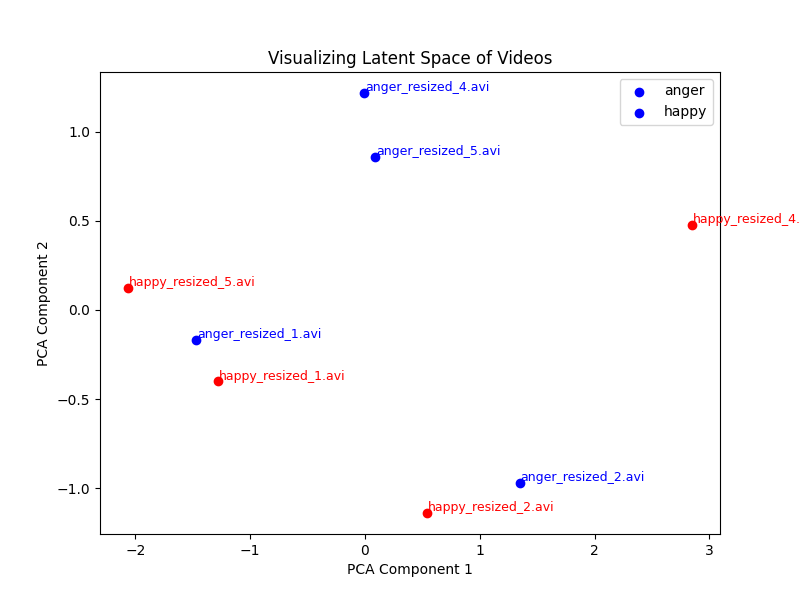
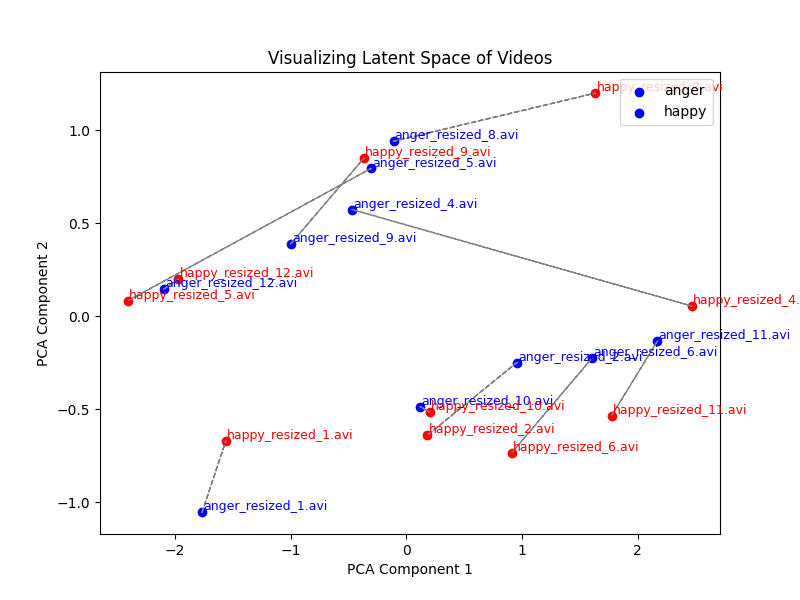
new file

diff --git a/apex_extract.py b/apex_extract.py
@@ -22,94 +22,6 @@ from joblib import Parallel, delayed
 # model parameters
 
 device = 'cuda'
-# face_cascade = cv2.CascadeClassifier(cv2.data.haarcascades + 'haarcascade_frontalface_default.xml')
-
-# def change_fps(cap, target_fps):
-#     original_fps = cap.get(cv2.CAP_PROP_FPS)
-#     frame_count = int(cap.get(cv2.CAP_PROP_FRAME_COUNT))
-#     duration = frame_count / original_fps
-#     new_frame_count = int(duration * target_fps)
-#     frames = []
-
-#     for i in range(new_frame_count):
-#         cap.set(cv2.CAP_PROP_POS_FRAMES, i * original_fps / target_fps)
-#         ret, frame = cap.read()
-#         if ret:
-#             frames.append(frame)
-#         else:
-#             break
-
-#     return frames
-
-# def face_crop(frame, size):
-#     height, width, _ = frame.shape
-#     new_width, new_height = size
-
-#     left = int((width - new_width) / 2)
-#     top = int((height - new_height) / 2)
-#     right = left + new_width
-#     bottom = top + new_height
-
-#     cropped_frame = frame[top:bottom, left:right]
-#     return cropped_frame
-
-# def crop_video(input_path, output_path, size, target_fps=24):
-#     cap = cv2.VideoCapture(input_path)
-#     frames = change_fps(cap, target_fps)
-#     cap.release()
-    
-#     if not frames:
-#         print("Error: No frames captured.")
-#         return
-
-#     fourcc = cv2.VideoWriter_fourcc(*'mp4v')  # 用于编码视频的编码器
-#     out = cv2.VideoWriter(output_path, fourcc, target_fps, size)
-
-#     # 在第10帧上进行人脸检测
-#     frame = frames[9] if len(frames) > 9 else frames[-1]  # 选择第10帧或最后一帧
-#     gray = cv2.cvtColor(frame, cv2.COLOR_BGR2GRAY)
-#     faces = face_cascade.detectMultiScale(gray, scaleFactor=1.1, minNeighbors=5, minSize=(30, 30))
-    
-#     if len(faces) == 0:
-#         print("No faces detected.")
-#         return
-
-#     (x, y, w, h) = faces[0]  # 选择检测到的第一个人脸
-
-#     for frame in frames:
-#         face_region = frame[y:y+h, x:x+w]
-#         resized_face = cv2.resize(face_region, size)
-#         out.write(resized_face)
-
-#     out.release()
-
-# def process_videos(input_folder, output_folder, size=(224, 224), target_fps=24):
-#     if not os.path.exists(output_folder):
-#         os.makedirs(output_folder)
-
-#     # 获取输入文件夹的名称
-#     input_folder_name = os.path.basename(input_folder)
-
-#     for filename in os.listdir(input_folder):
-#         if filename.endswith(".mp4") or filename.endswith(".avi"):  # 根据需要可以添加更多的视频格式
-#             input_path = os.path.join(input_folder, filename)
-#             # 构造新的输出文件名，包含原始文件夹的名称
-#             output_filename = f"{input_folder_name}_resized_{filename}"
-#             output_path = os.path.join(output_folder, output_filename)
-#             crop_video(input_path, output_path, size, target_fps)
-
-# input_folder_1 ='data/test/anger'  # 替换为第一个文件夹输出路径
-
-# input_folder_2 = 'data/test/happy'  # 替换为第二个文件夹输出路径
-
-# output_folder_1 = 'data/test/reanger24'
-
-# output_folder_2 = 'data/test/rehappy24'
-# # 处理第一个文件夹
-# process_videos(input_folder_1, output_folder_1)
-
-# # 处理第二个文件夹
-# process_videos(input_folder_2, output_folder_2)
 
 input_folder_1 ='data/test/reanger24'
 
@@ -121,11 +33,28 @@ device = torch.device('cuda' if torch.cuda.is_available() else 'cpu')
 model = Marlin.from_file("marlin_vit_base_ytf", "saved/marlin_vit_base_ytf.encoder.pt").to(device)
 print(model)
 
+def find_apex_frame(features):
+    max_change = 0
+    apex_frame_index = 0
+    for i in range(1, len(features)-1):
+        prev_similarity = cosine_similarity([features[i-1]], [features[i]])[0][0]
+        next_similarity = cosine_similarity([features[i]], [features[i+1]])[0][0]
+        change = abs(prev_similarity - next_similarity)
+        
+        if change > max_change:
+            max_change = change
+            apex_frame_index = i
+    
+    return apex_frame_index
+
+
 # 定义提取特征的函数
 def extract_features_from_video(video_path):
     features = model.extract_video(video_path)
-    mean_features = np.mean(features.detach().cpu().numpy(), axis=0)
-    return mean_features
+    apex_featrues = features[find_apex_frame(features.detach().cpu().numpy())]
+    apex_featrues = apex_featrues.cpu()
+    # mean_features = np.mean(features.detach().cpu().numpy(), axis=0)
+    return apex_featrues
 
 def extract_features_from_folder(folder_path):
     video_files = [os.path.join(folder_path, f) for f in os.listdir(folder_path) if f.endswith(".mp4") or f.endswith(".avi")]

diff --git a/interpolate.py b/interpolate.py
@@ -1,0 +1,110 @@
+import torch
+from PIL import Image
+import torchvision.transforms as transforms
+import matplotlib.pyplot as plt
+# from sklearn.manifold import TSNE
+# 使用Multicore-TSNE
+from MulticoreTSNE import MulticoreTSNE as TSNE
+from sklearn.decomposition import PCA
+import cv2
+import numpy as np
+from mpl_toolkits.mplot3d import Axes3D
+import os
+import re
+import seaborn as sns
+from sklearn.metrics.pairwise import cosine_similarity
+
+
+# from models import models_vit
+from model.marlin import Marlin
+from joblib import Parallel, delayed
+
+
+input_folder_1 ='data/test/reanger24'
+
+input_folder_2 = 'data/test/rehappy24'
+
+
+# 确保模型在GPU上
+device = torch.device('cuda' if torch.cuda.is_available() else 'cpu')
+model = Marlin.from_file("marlin_vit_base_ytf", "saved/marlin_vit_base_ytf.full.pt").to(device)
+print(model)
+
+# 定义提取特征的函数
+def extract_features_from_video(video_path):
+    features = model.extract_video(video_path)
+    mean_features = np.mean(features.squeeze().detach().cpu().numpy(), axis=0)
+    return mean_features
+
+def extract_features_from_folder(folder_path):
+    video_files = [os.path.join(folder_path, f) for f in os.listdir(folder_path) if f.endswith(".mp4") or f.endswith(".avi")]
+    features_list = Parallel(n_jobs=-1)(delayed(extract_features_from_video)(video) for video in video_files)
+    return video_files, features_list
+
+# 提取文件名末尾的数字
+def extract_number_from_filename(filename):
+    match = re.search(r'_(\d+)\.', filename)
+    return int(match.group(1)) if match else None
+
+# 从第一个文件夹提取特征
+video_files1, features_list1 = extract_features_from_folder(input_folder_1)
+features_array1 = np.array(features_list1)
+print(f"Shape of features_array_1: {features_array1.shape}")
+
+# 从第二个文件夹提取特征
+video_files2, features_list2 = extract_features_from_folder(input_folder_2)
+features_array2 = np.array(features_list2)
+print(f"Shape of features_array_2: {features_array2.shape}")
+
+# 合并两个视频的特征
+features_combined = np.concatenate((features_array1, features_array2))
+video_files_combined = video_files1 + video_files2
+
+labels = [extract_number_from_filename(video_file) for video_file in video_files_combined]
+
+# 进行PCA降维
+pca = PCA(n_components=2)
+features_2d = pca.fit_transform(features_combined)
+print(features_2d.shape)
+# 线性插值
+def linear_interpolate(point1, point2, alpha):
+    return point1 * (1 - alpha) + point2 * alpha
+
+# 插值生成新的特征点
+new_point = linear_interpolate(features_2d[0], features_2d[10], 0.5)
+new_features_high_dim = pca.inverse_transform(new_point)
+
+# 在高维特征空间中进行插值
+# high_dim_features_1 = features_array1[0]
+# high_dim_features_2 = features_array2[0]
+# new_features_high_dim = linear_interpolate(high_dim_features_1, high_dim_features_2, 0.5)
+
+new_features_high_dim_tensor = torch.tensor(new_features_high_dim).unsqueeze(0).to(device)
+print(new_features_high_dim_tensor.shape)
+# 调用解码器进行视频重构
+reconstructed_video_features = model.enc_dec_proj(new_features_high_dim_tensor)
+print(reconstructed_video_features.shape)
+# reconstructed_video_features = model.decoder.forward_features(reconstructed_video_features)
+
+# # 将解码后的特征转换回视频帧
+reconstructed_video = model.decoder.reconstruct_video(reconstructed_video_features)
+print(reconstructed_video.shape)
+# reconstructed_video = model.decoder.unpatch_to_img(reconstructed_video_features)
+
+# 保存重构的视频
+def save_video(frames, output_path, fps):
+    frames = frames.permute(0, 2, 3, 4, 1).cpu().detach().numpy()  # 转换为 (B, T, H, W, C) 格式
+    frames = (frames * 255).astype(np.uint8)  # 将帧转换为uint8类型
+    height, width, layers = frames[0].shape[1:4]
+    size = (width, height)
+    out = cv2.VideoWriter(output_path, cv2.VideoWriter_fourcc(*'mp4v'), fps, size)
+    
+    for frame in frames[0]:  # 处理每一帧
+        out.write(frame)
+    out.release()
+    print("video saved!")
+
+output_path = 'output_video1.mp4'
+fps = 24  # 根据原始视频帧率调整
+save_video(reconstructed_video, output_path, fps)
+

diff --git a/test_reconstruct.py b/test_reconstruct.py
@@ -1,0 +1,77 @@
+import os
+from typing import Optional, Callable
+
+import numpy as np
+import torch.cuda
+
+from marlin_pytorch import Marlin
+
+
+class TestMarlinPytorch:
+    assertTrue: Callable
+    CROP_VIDEOS = [f"cropped{str(i).zfill(2)}" for i in range(1, 6)]
+    WILD_VIDEOS = [f"video{str(i).zfill(2)}" for i in range(1, 6)]
+    USE_GPU = torch.cuda.is_available()
+
+    MODEL_NAME: Optional[str] = None
+    MODEL_ENCODER_PATH: Optional[str] = None
+    MODEL_FULL_PATH: Optional[str] = None
+    EMBEDDING_SIZE: Optional[int] = None
+
+    def test_load_full_model_from_file(self):
+        Marlin.from_file(self.MODEL_NAME, self.MODEL_FULL_PATH)
+        self.assertTrue(True)
+
+    def test_load_encoder_from_file(self):
+        Marlin.from_file(self.MODEL_NAME, self.MODEL_ENCODER_PATH)
+        self.assertTrue(True)
+
+    def test_extract_wild_video(self):
+        if not os.path.exists(os.path.join("test", "output_sample", self.MODEL_NAME)):
+            return
+
+        model = Marlin.from_file(self.MODEL_NAME, self.MODEL_ENCODER_PATH)
+        if self.USE_GPU:
+            model.cuda()
+
+        for video in self.WILD_VIDEOS:
+            feat = model.extract_video(os.path.join("test", "input_sample", f"{video}.mp4"), crop_face=True)
+            feat = feat.cpu().numpy()
+            true = np.load(os.path.join("test", "output_sample", self.MODEL_NAME, f"{video}.npy"))
+            diff = np.abs(feat - true).mean()
+            self.assertTrue(diff < 1.5e-4)
+
+    def test_extract_cropped_video(self):
+        if not os.path.exists(os.path.join("test", "output_sample", self.MODEL_NAME)):
+            return
+
+        model = Marlin.from_file(self.MODEL_NAME, self.MODEL_ENCODER_PATH)
+        if self.USE_GPU:
+            model.cuda()
+
+        for video in self.CROP_VIDEOS:
+            feat = model.extract_video(os.path.join("test", "input_sample", f"{video}.mp4"))
+            feat = feat.cpu().numpy()
+            true = np.load(os.path.join("test", "output_sample", self.MODEL_NAME, f"{video}.npy"))
+            diff = np.abs(feat - true).mean()
+            self.assertTrue(diff < 1.5e-4)
+
+    def test_extract_cropped_clip(self):
+        model = Marlin.from_file(self.MODEL_NAME, self.MODEL_ENCODER_PATH)
+        if self.USE_GPU:
+            model.cuda()
+
+        x = torch.rand(1, 3, 16, 224, 224).to(model.device)
+        self.assertTrue(model.extract_features(x).shape == (1, 1568, self.EMBEDDING_SIZE))
+        self.assertTrue(model.extract_features(x, keep_seq=False).shape == (1, self.EMBEDDING_SIZE))
+
+    def test_reconstruct_clip(self):
+        model = Marlin.from_file(self.MODEL_NAME, self.MODEL_FULL_PATH)
+        if self.USE_GPU:
+            model.cuda()
+
+        mask = torch.zeros((1, 1568)).to(model.device).bool()
+        mask[:, :392] = True
+        x = torch.rand(1, 3, 16, 224, 224).to(model.device)
+        pred = model(x, mask)
+        self.assertTrue(pred.shape == (1, 1176, 1536))

diff --git a/changefps.py b/changefps.py
@@ -1,0 +1,35 @@
+import os
+from moviepy.editor import VideoFileClip
+
+def change_fps(input_path, output_path, fps=24):
+    # 读取视频文件
+    clip = VideoFileClip(input_path)
+    # 修改帧率
+    clip = clip.set_fps(fps)
+    # 保存视频文件
+    clip.write_videofile(output_path, codec="libx264")
+
+def process_videos(input_folder, output_folder, fps=24):
+    if not os.path.exists(output_folder):
+        os.makedirs(output_folder)
+    
+    for filename in os.listdir(input_folder):
+        if filename.endswith((".mp4", ".avi", ".mov", ".mkv")):  # 你可以根据需要添加其他视频格式
+            input_path = os.path.join(input_folder, filename)
+            output_path = os.path.join(output_folder, filename)
+            print(f"Processing {input_path} -> {output_path}")
+            change_fps(input_path, output_path, fps)
+
+def main(folder1, folder2, output_folder1, output_folder2):
+    process_videos(folder1, output_folder1)
+    process_videos(folder2, output_folder2)
+
+if __name__ == "__main__":
+    # 这里替换成你的文件夹路径
+    folder1 ='data/resizedwater'  # 替换为第一个文件夹输出路径
+    folder2 = 'data/resizedwine'  # 替换为第二个文件夹输出路径
+
+    output_folder1 = 'data/resizedwater24'
+    output_folder2 = 'data/resizedwine24'
+    
+    main(folder1, folder2, output_folder1, output_folder2)
